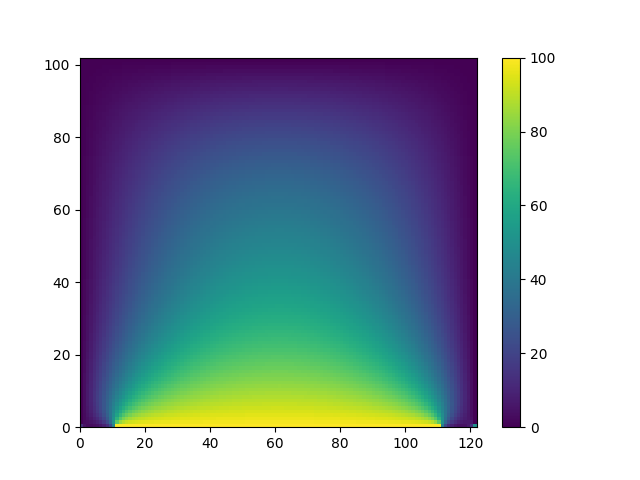
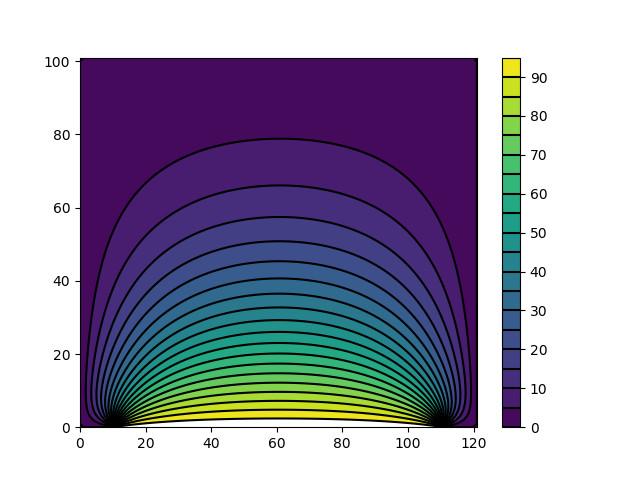
changed the way potential was calculated (doesn't go near boundaries) and added contour lines to plot

diff --git a/main.py b/main.py
@@ -1,9 +1,11 @@
 import numpy as np
 import matplotlib.pyplot as plt
+import numpy.linalg
 
 if __name__ == '__main__':
     # Parameters
-    max_iterations = int(1e3)
+    max_iterations = 10000
+    tolerance = 1e-3
 
     # Define dimensions of simulation space
     h = 1
@@ -14,24 +16,33 @@ if __name__ == '__main__':
     sim_space = np.meshgrid(x, y)
 
     # Allocate memory for storing potential function and give initial values
-    V = 50 * np.ones((np.size(x), np.size(y)))
+    V = np.zeros((np.size(x), np.size(y)))
+
+    # Apply voltage at electrodes
+    V[11:111, 0] = 100
+    V[0, 1:122] = 0
+    V[121:122, 1:122] = 0
+    V[1:121, 101:102] = 0
 
     # Calculate
     for iter in range(max_iterations):
-        for i in range(np.size(x) - 1):
-            for j in range(np.size(y) - 1):
-                # Maintain voltage at electrodes
-                V[11:111, 0:1] = 100
-                V[0:1, 1:122] = 0
-                V[121:122, 1:122] = 0
-                V[1:121, 101:102] = 0
+        oldV = V.copy()
+        for i in range(1, np.size(x) - 1):
+            for j in range(1, np.size(y) - 1):
                 # Traverse mesh and update
                 V[i, j] = (V[i+1, j] + V[i-1, j] + V[i, j+1] + V[i, j-1]) / 4
-        print('Iteration:', iter)
+        # Check if converged
+        err = np.max(numpy.abs((V[1:x.size-2, 1:y.size-2] - oldV[1:x.size-2, 1:y.size-2])/V[1:x.size-2, 1:y.size-2]))
+        print('Iteration:', iter, 'Error:', err)
+        if err < tolerance:
+            print('Solution converged')
+            break
 
     V = np.transpose(V)
-    plt.contourf(x, y, V)
-    cs = plt.pcolor(V)
-    plt.colorbar(cs)
+    levels = np.arange(0, 100, 5)
+    cs = plt.contourf(x, y, V, levels, origin='upper')
+    cs2 = plt.contour(cs, colors='k', origin='upper')
+    cbar = plt.colorbar(cs)
+    cbar.add_lines(cs2)
     plt.savefig('potential_plot.png')
     plt.show()
